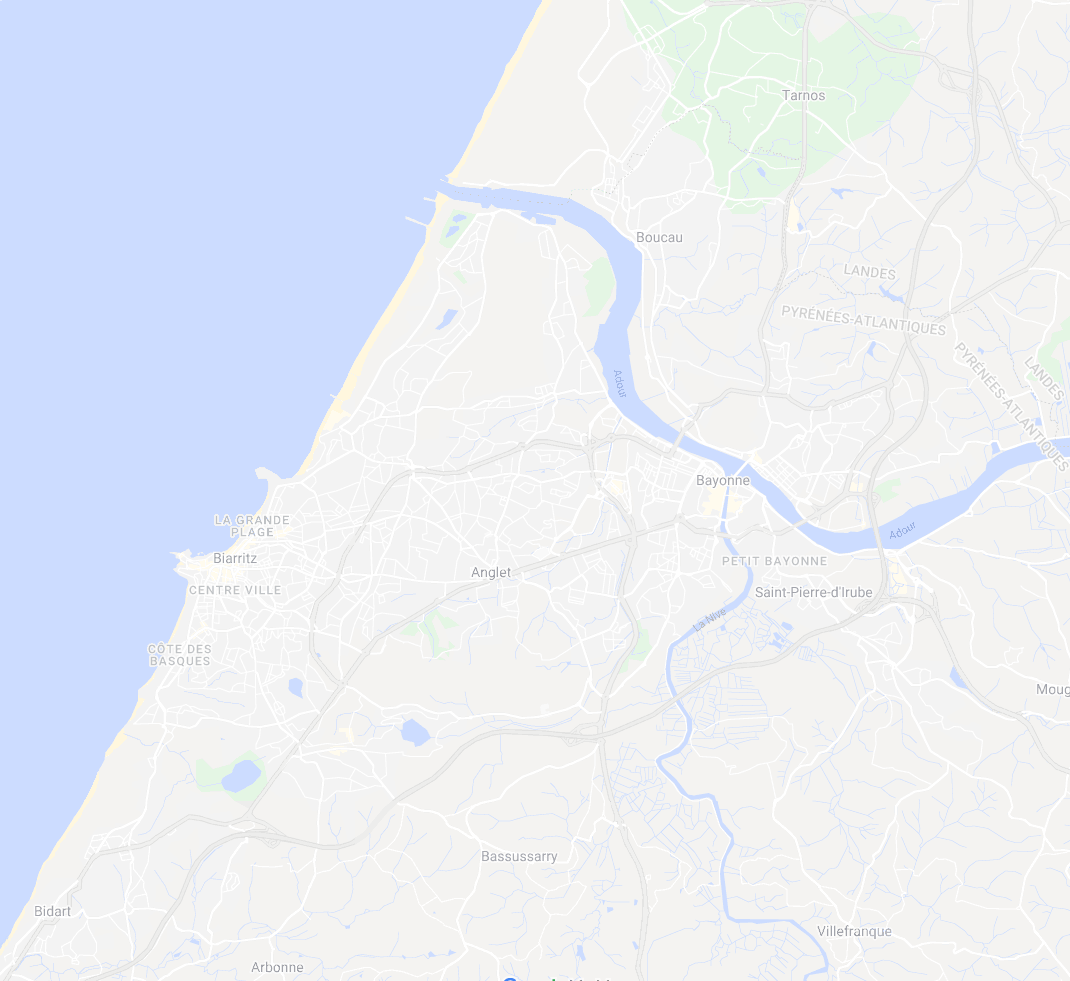
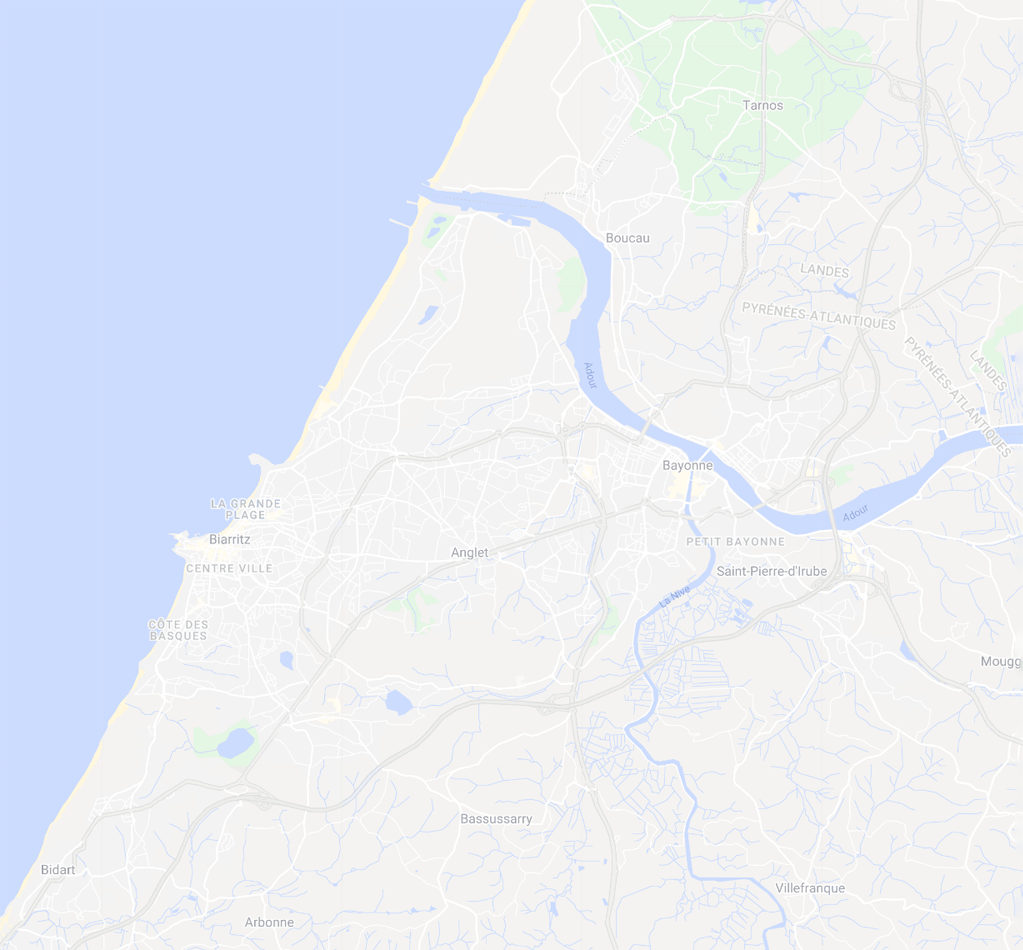
Compètement prêt pour la présentation (fin du git scolaire)

diff --git a/Programmes/Visualisation/visualisation.py b/Programmes/Visualisation/visualisation.py
@@ -5,17 +5,14 @@ from time import sleep
 import time as t
 import random
 
-windowWidth = 1070
-windowHeight = 981
+windowWidth = 1023
+windowHeight = 950
 win = GraphWin("Reseau Chronoplus", windowWidth, windowHeight)
-
-
 
 minLong=np.Inf
 minLat=np.Inf
 maxLong=np.NINF
 maxLat=np.NINF
-
 
 for i in arrets:
     if arrets[i][0] <= minLat:
@@ -32,17 +29,19 @@ minLat-=0.002
 maxLong+=0.002
 maxLat+=0.002
 
+print(minLong,"minLong",minLat,"minLat",maxLong,"maxLong",maxLat,"maxLat")
+
+A=distanceGPS(43,44,0,0)
+B=distanceGPS(43,43,-1,0)
+
 if maxLat-minLat > maxLong-minLong:
     ratio=windowHeight/(maxLat-minLat)
 else:
     ratio=windowWidth/(maxLong-minLong)
 
-
-
-
 def afficherArret(arret,couleur,fill=True,taille=4):
     affichage = Circle(Point((arrets[arret][1]-minLong)*ratio,
-                             windowHeight-(arrets[arret][0]-minLat)*ratio*1.37),taille)
+                             windowHeight-(arrets[arret][0]-minLat)*ratio*(A/B)),taille)
     if fill:
         affichage.setFill(couleur)
     affichage.draw(win)
@@ -51,9 +50,9 @@ def afficherArret(arret,couleur,fill=True,taille=4):
 
 def tracerArc(arret1,arret2,couleur="black",largeur=1):
     affichage = Line(Point((arrets[arret1][1]-minLong)*ratio,
-                           windowHeight-(arrets[arret1][0]-minLat)*ratio*1.37),
+                           windowHeight-(arrets[arret1][0]-minLat)*ratio*(A/B)),
                      Point((arrets[arret2][1]-minLong)*ratio,
-                            windowHeight-(arrets[arret2][0]-minLat)*ratio*1.37))
+                            windowHeight-(arrets[arret2][0]-minLat)*ratio*(A/B)))
     affichage.setFill(couleur)
     affichage.setWidth(largeur)
     affichage.draw(win)
@@ -199,7 +198,6 @@ def floyd_graphique(depart,arrivee,win):
     afficherArret(depart, "blue")
     afficherArret(arrivee, "blue")
     #-------------------------------------
-
     n=len(nom_arrets) # Taille de la matrice
     k=0 # Numéro de l'étape (= tous les chemins de longueur <= k)
     for k in range(n):
@@ -209,7 +207,6 @@ def floyd_graphique(depart,arrivee,win):
             random_blue=random.randrange(0,255)
             arret_courant=afficherArret(nom(k),color_rgb(random_red,random_green,random_blue),True,2)
             afficherDuree(tmp)
-
             
         for i in range (n):
             afficherArret(nom(k),color_rgb(random_red,random_green,random_blue),True)
@@ -249,7 +246,7 @@ def floyd_graphique(depart,arrivee,win):
             sleep(0.1)
     afficherArret(arrivee,"blue")
     
-    chemin.reverse()                                            #On inverse la liste pour obtenir le chemin dans le bon ordre (départ vers arrivée)
+    chemin.reverse()         #On inverse la liste pour obtenir le chemin dans le bon ordre (départ vers arrivée)
     return (chemin,round(M0[indice_som(depart)][indice_som(arrivee)]))
 
 
@@ -271,7 +268,7 @@ def aide_touches():
     
 def dessinerGraphe():
     win.delete('all')
-    fond_carte = Image(Point(int(windowWidth/2),int(windowHeight/2)+1), "fond_carte.png")
+    fond_carte = Image(Point(int(windowWidth/2)-1,int(windowHeight/2)+1), "fond_carte.png")
     fond_carte.draw(win)
     aide_touches()
     for i in arrets:
@@ -280,16 +277,12 @@ def dessinerGraphe():
     for i in arrets:
         afficherArret(i,"black",False)
 
-
-    
 pressed_key=None
 def random_arret():
     global pressed_key
     while True:
         if pressed_key == None :
             dessinerGraphe()
-            
-            
             pressed_key = win.getKey()
         if pressed_key=="d":
             dessinerGraphe()
@@ -316,16 +309,12 @@ def random_arret():
             win.close()
             return 0
     
-
 def main(arret1,arret2):
-
-    
     dessinerGraphe()
     dijkstra_graphique(arret1,arret2,win)
     win.getMouse()
     random_arret()
     
 #main("NOVE","TROICR")
-
 
 random_arret()
